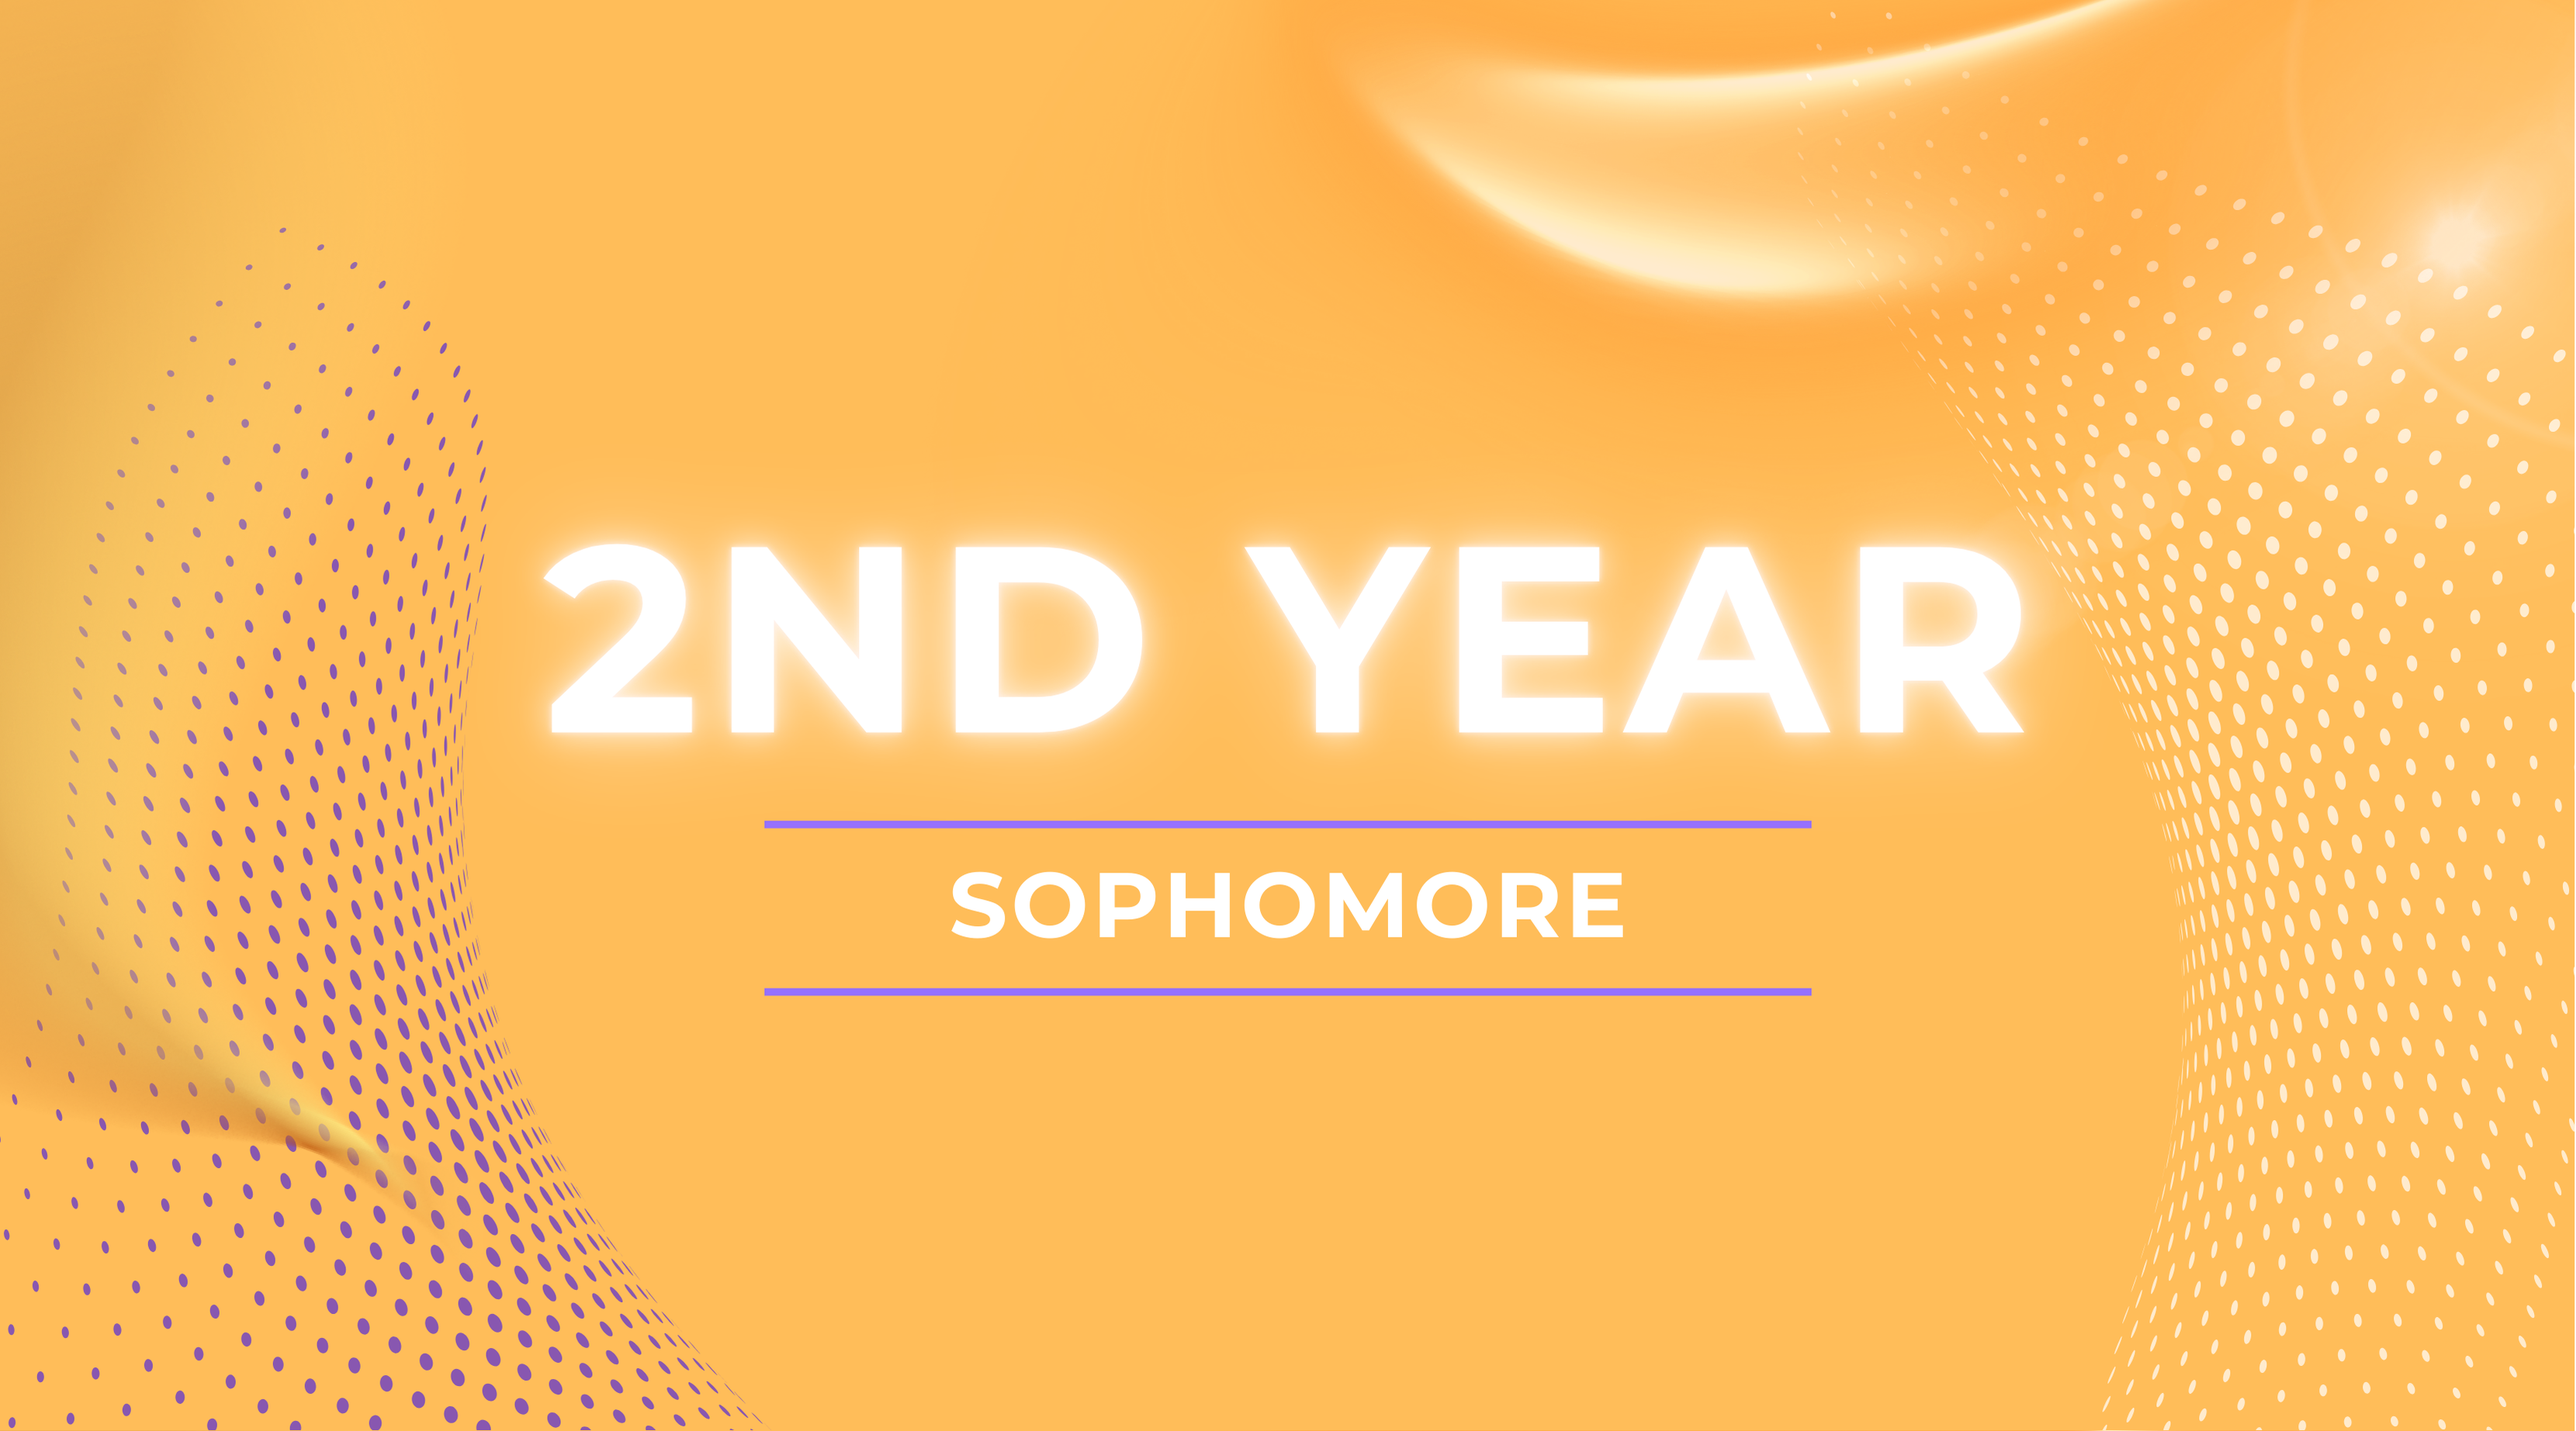
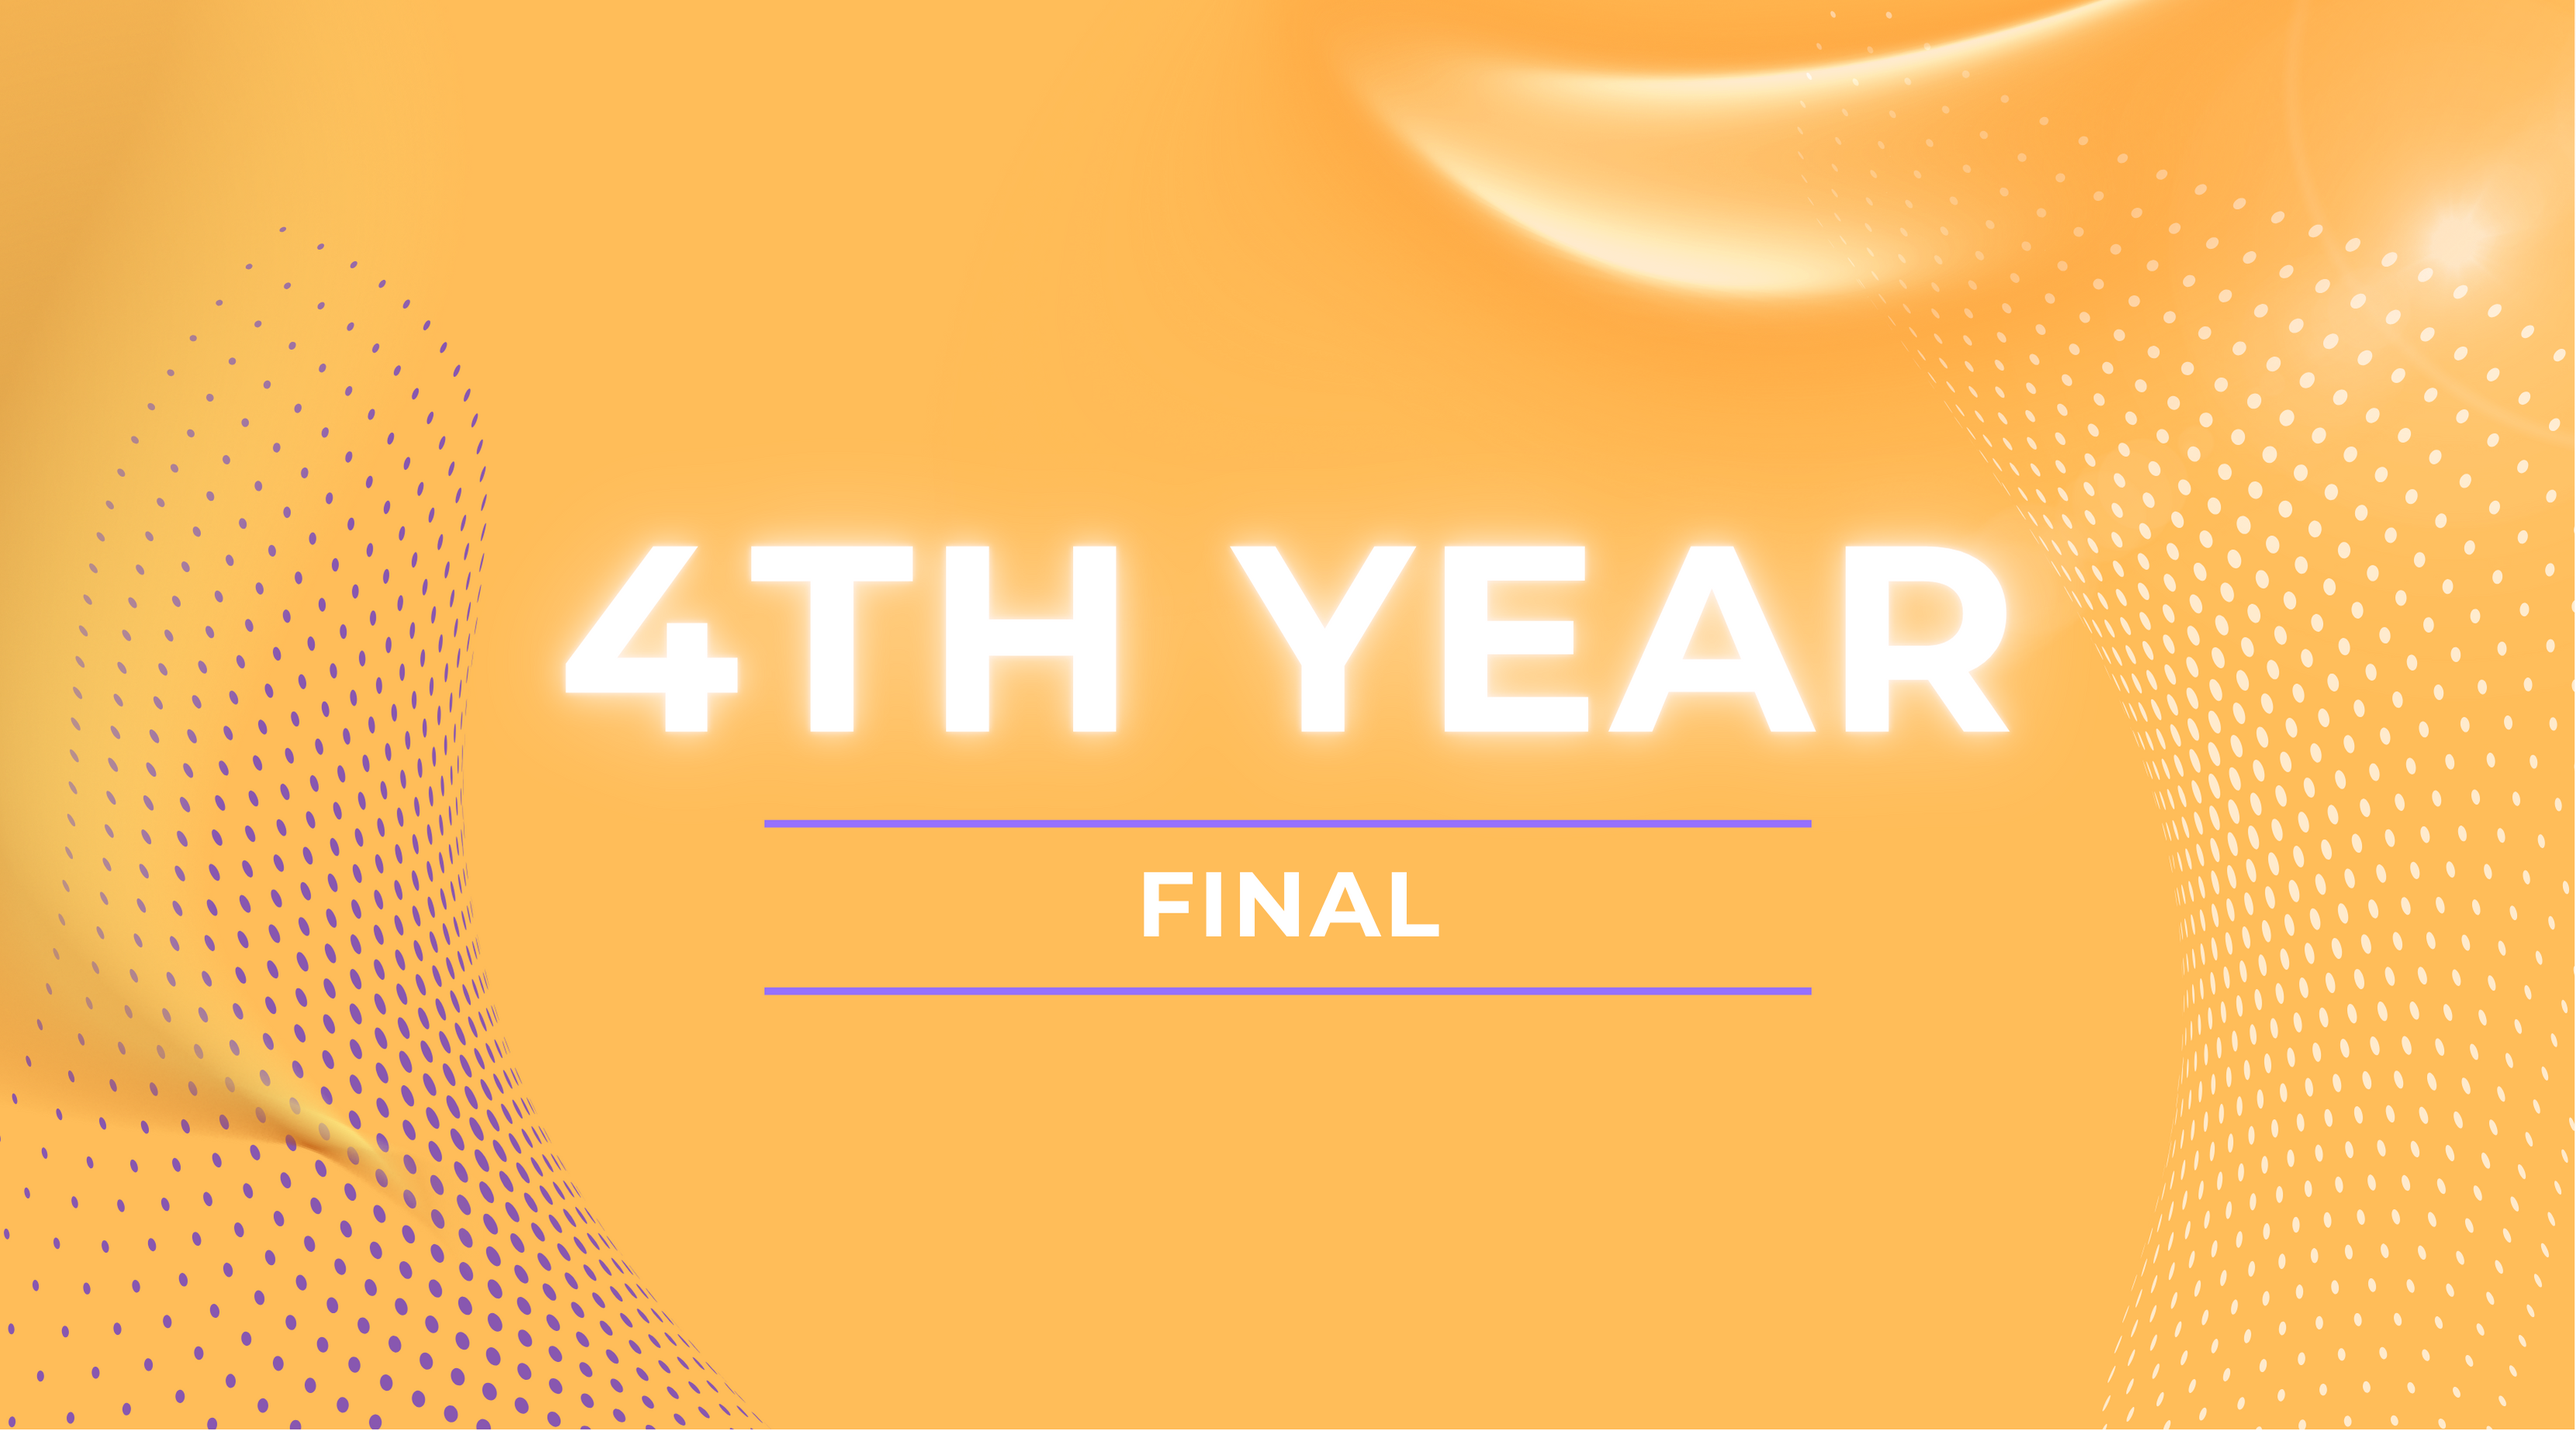
select card changed

diff --git a/components/CardGrid.tsx b/components/CardGrid.tsx
@@ -3,71 +3,48 @@ import { useRouter } from "next/navigation";
 import { motion } from "framer-motion";
 
 const cards = [
-  { title: "1st Year", link: "/branch/first", image: "/first_year.png" },
-  { title: "2nd Year", link: "/branch/fourth", image: "/fourth_year.png" },
-  { title: "3rd Year", link: "/branch/third", image: "/third_year.png" },
-  { title: "4th Year", link: "/branch/second", image: "/second_year.png" },
+  { link: "/branch/first", image: "/first_year.png" },
+  { link: "/branch/second", image: "/second_year.png" },
+  { link: "/branch/third", image: "/third_year.png" },
+  { link: "/branch/fourth", image: "/fourth_year.png" },
 ];
 
 const CardGrid = () => {
   const router = useRouter();
 
   return (
-    <motion.div
-      initial={{ opacity: 0 }}
-      whileInView={{ opacity: 1 }}
-      viewport={{ once: true }}
-      transition={{ duration: 2 }}
-      className="py-20 min-h-screen"
-    >
-      <div className="grid grid-cols-1 md:grid-cols-2 gap-10 px-6 max-w-6xl mx-auto">
-        {cards.map((card, index) => {
-          // Define animation direction based on position
-          let initialX = 0,
-            initialY = 0;
-          if (index === 0) initialX = -100; // Left entrance for top-left card
-          if (index === 1) initialX = 100; // Right entrance for top-right card
-          if (index > 1) initialY = 100; // Bottom entrance for bottom two cards
-
-          return (
-            <motion.div
-              key={index}
-              initial={{ opacity: 0, x: initialX, y: initialY, scale: 0.95 }}
-              whileInView={{ opacity: 1, x: 0, y: 0, scale: 1 }}
-              viewport={{ once: true, amount: 0.2 }}
-              transition={{ duration: 1, ease: "easeOut", delay: index * 0.3 }}
-              className="relative h-72 rounded-xl overflow-hidden bg-cover bg-center shadow-lg cursor-pointer hover:shadow-xl transition-all"
-              style={{ backgroundImage: `url(${card.image})` }}
-              onClick={() => router.push(card.link)}
-            >
-              {/* Subtle dark gradient overlay for readability */}
-              <div className="absolute inset-0 bg-gradient-to-t from-gray-900/50 to-transparent"></div>
-
-              {/* Card Content */}
-              <div className="absolute inset-0 flex flex-col justify-center items-center text-white">
-                <motion.h2
-                  initial={{ opacity: 0, y: 10 }}
-                  animate={{ opacity: 1, y: 0 }}
-                  transition={{ delay: index * 0.4, duration: 0.6 }}
-                  className="text-3xl font-medium tracking-wide"
-                >
-                  {card.title}
-                </motion.h2>
-
-                <motion.button
-                  initial={{ opacity: 0, scale: 0.9 }}
-                  animate={{ opacity: 1, scale: 1 }}
-                  transition={{ delay: index * 0.5, duration: 0.5 }}
-                  className="mt-4 px-6 py-3 text-gray-900 font-bold rounded-lg bg-white hover:bg-gray-100 transition-all shadow-md"
-                >
-                  Enter
-                </motion.button>
-              </div>
-            </motion.div>
-          );
-        })}
-      </div>
-    </motion.div>
+    <div className="py-20 min-h-screen">
+      <motion.div
+        initial={{ opacity: 0 }}
+        whileInView={{ opacity: 1 }}
+        viewport={{ once: true }}
+        transition={{ duration: 1.2, ease: "easeInOut" }}
+        className="grid grid-cols-1 md:grid-cols-2 gap-10 px-6 max-w-6xl mx-auto"
+      >
+        {cards.map((card, index) => (
+          <motion.div
+            key={index}
+            initial={{ opacity: 0, y: 40 }}
+            whileInView={{ opacity: 1, y: 0 }}
+            viewport={{ once: true, amount: 0.3 }}
+            transition={{ duration: 0.8, ease: "easeOut", delay: index * 0.15 }}
+            whileHover={{
+              scale: 1.07, // Faster scaling effect
+              rotateX: 8, // More noticeable tilt
+              rotateY: 8,
+              boxShadow: "0px 20px 40px rgba(0, 0, 0, 0.3)", // Stronger shadow
+              transition: { duration: 0.2, type: "spring", stiffness: 200 }, // Faster response
+            }}
+            className="relative h-72 rounded-xl overflow-hidden bg-cover bg-center shadow-lg cursor-pointer transition-all"
+            style={{ backgroundImage: `url(${card.image})` }}
+            onClick={() => router.push(card.link)}
+          >
+            {/* Gradient Overlay */}
+            <div className="absolute inset-0 bg-gradient-to-t from-gray-900/60 to-transparent"></div>
+          </motion.div>
+        ))}
+      </motion.div>
+    </div>
   );
 };
 

diff --git a/app/branch/[yearBranch]/subjects/[branch]/page.tsx b/app/branch/[yearBranch]/subjects/[branch]/page.tsx
@@ -200,42 +200,42 @@ export default async function SubjectPage({
       ],
       third: [
         {
-          name: "FDS",
+          name: "Foundation of Data Science",
           image: "/3_IT/FDS.png",
           pyqLink: "",
           notesLink: "",
           playlistLink: "",
         },
         {
-          name: "SE",
+          name: "Software Engineering",
           image: "/3_IT/SE.png",
           pyqLink: "",
           notesLink: "",
           playlistLink: "",
         },
         {
-          name: "DAA",
+          name: "Design and Analysis of Algorithms",
           image: "/3_CCE/DAA.png",
           pyqLink: "",
           notesLink: "",
           playlistLink: "",
         },
         {
-          name: "CN",
+          name: "Computer Networks",
           image: "/3_IT/CN.png",
           pyqLink: "",
           notesLink: "",
           playlistLink: "",
         },
         {
-          name: "AI/ML",
+          name: "Artificial Intelligence and Machine Learning",
           image: "/3_IT/AI_ML.png",
           pyqLink: "",
           notesLink: "",
           playlistLink: "",
         },
         {
-          name: "ACD",
+          name: "Automata & Compiler Design",
           image: "/3_IT/ACD.png",
           pyqLink: "",
           notesLink: "",
@@ -297,28 +297,28 @@ export default async function SubjectPage({
           playlistLink: "",
         },
         {
-          name: "DAA",
+          name: "Design & Analysis of Algorithms",
           image: "/3_CSE/DAA.png",
           pyqLink: "",
           notesLink: "",
           playlistLink: "",
         },
         {
-          name: "ACD",
+          name: "Automata & Compiler Design",
           image: "/3_CSE/ACD.png",
           pyqLink: "",
           notesLink: "",
           playlistLink: "",
         },
         {
-          name: "CN",
+          name: "Computer Networks",
           image: "/3_CSE/CN.png",
           pyqLink: "",
           notesLink: "",
           playlistLink: "",
         },
         {
-          name: "SE",
+          name: "Software Engineering",
           image: "/3_CSE/SE.png",
           pyqLink: "",
           notesLink: "",
@@ -453,7 +453,7 @@ export default async function SubjectPage({
           name: "Wirless Communication",
           image: "/3_CCE/WC.png",
           pyqLink: "",
-          notesLink: "",  
+          notesLink: "",
           playlistLink: "",
         },
         {
@@ -461,8 +461,8 @@ export default async function SubjectPage({
           image: "/3_CCE/AL_ML.png",
           pyqLink: "",
           notesLink: "",
-          playlistLink: "", 
-        }
+          playlistLink: "",
+        },
       ],
     },
     AIML: {
@@ -990,17 +990,23 @@ export default async function SubjectPage({
   ) => {
     if (!subjects) return <div>No subjects found</div>;
     return (
-      <div className="flex flex-row flex-wrap gap-y-6 mt-20 p-10 text-black justify-between">
-        {subjects.map(({ name, image, pyqLink, notesLink, playlistLink }) => (
-          <CardWithSelect
-            key={name}
-            subjectName={name}
-            subjectImage={image}
-            pyqLink={pyqLink}
-            notesLink={notesLink}
-            playlistLink={playlistLink}
-          />
-        ))}
+      <div className="min-h-screen px-4 py-4  bg-cover bg-center mt-12">
+        <div
+          className="p-10 text-black 
+                  grid grid-cols-1 sm:grid-cols-2 md:grid-cols-3 lg:grid-cols-4 
+                  gap-6"
+        >
+          {subjects.map(({ name, image, pyqLink, notesLink, playlistLink }) => (
+            <CardWithSelect
+              key={name}
+              subjectName={name}
+              subjectImage={image}
+              pyqLink={pyqLink}
+              notesLink={notesLink}
+              playlistLink={playlistLink}
+            />
+          ))}
+        </div>
       </div>
     );
   };

diff --git a/components/CardSelectComponent.tsx b/components/CardSelectComponent.tsx
@@ -1,4 +1,5 @@
 "use client";
+
 import * as React from "react";
 import Image from "next/image";
 import {
@@ -10,6 +11,14 @@ import {
   SelectValue,
 } from "@/components/ui/select";
 
+/**
+ * Props:
+ * - subjectName: string (name of the subject to display)
+ * - subjectImage: string (URL to the subject image)
+ * - pyqLink: string
+ * - notesLink: string
+ * - playlistLink: string
+ */
 export default function CardWithSelect({
   subjectName,
   subjectImage,
@@ -31,17 +40,29 @@ export default function CardWithSelect({
       notes: notesLink,
       playlist: playlistLink,
     };
-
     if (links[value]) {
       window.open(links[value], "_blank");
-      setSelectedValue(null); // Reset selection so the same option can be selected again
+      setSelectedValue(null); // Reset selection so user can select the same option again
     }
   };
 
   return (
-    <div className="w-80 bg-white shadow-lg rounded-xl p-6 flex flex-col items-center border border-gray-300 transition-transform transform hover:scale-105 duration-200">
-      {/* Image Section with Overlay */}
-      <div className="w-full h-44 relative overflow-hidden rounded-xl shadow-md mb-4">
+    <div className="group relative w-72 cursor-pointer border border-gray-300 rounded-xl bg-white p-4 shadow-md overflow-hidden transform transition-transform duration-300 hover:scale-[1.02]">
+      {/* Subject Name Header with Animated Underline triggered on card hover */}
+      <h2
+        className="
+          text-center text-xl font-semibold mb-3 text-gray-800 
+          relative inline-block
+          after:content-[''] after:absolute after:left-0 after:-bottom-1 after:h-[2px] after:bg-black after:w-full 
+          after:scale-x-0 after:origin-right after:transition-transform after:duration-300
+          group-hover:after:scale-x-100 group-hover:after:origin-left
+        "
+      >
+        {subjectName}
+      </h2>
+
+      {/* Image Section (Rounded + Border) */}
+      <div className="relative w-full h-40 mb-4 rounded-xl border border-gray-300 shadow-sm overflow-hidden">
         <Image
           src={subjectImage}
           alt={subjectName}
@@ -49,31 +70,17 @@ export default function CardWithSelect({
           objectFit="cover"
           className="rounded-xl"
         />
-        <div className="absolute top-0 left-0 w-full h-full flex items-center justify-center bg-black bg-opacity-50 rounded-xl">
-          <h2 className="text-lg font-semibold text-white text-center">
-            {subjectName}
-          </h2>
-        </div>
       </div>
 
-      {/* Select Option */}
+      {/* Resource Selector */}
       <Select
-        onValueChange={(value) => {
-          handleSelection(value);
-        }}
+        onValueChange={(value) => handleSelection(value)}
         value={selectedValue ?? ""}
       >
-        <SelectTrigger
-          className="w-full border-gray-300 rounded-lg bg-gray-50 shadow-sm hover:bg-gray-100 focus:ring-2 focus:ring-blue-500"
-          onClick={() => {
-            if (selectedValue) {
-              handleSelection(selectedValue);
-            }
-          }}
-        >
+        <SelectTrigger className="w-full border border-gray-300 rounded-md bg-gray-50 shadow-sm hover:bg-gray-100 focus:ring-2 focus:ring-blue-500">
           <SelectValue placeholder="📚 Select a Resource" />
         </SelectTrigger>
-        <SelectContent className="bg-white border border-gray-200 rounded-lg shadow-md">
+        <SelectContent className="bg-white border border-gray-200 rounded-md shadow-lg">
           <SelectGroup>
             <SelectItem value="pyq">📜 PYQ (Past Year Papers)</SelectItem>
             <SelectItem value="notes">📖 Toppers Notes</SelectItem>
